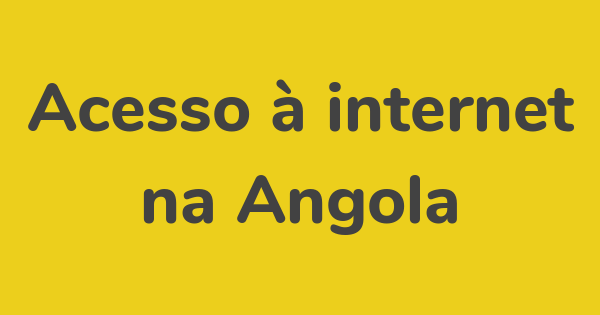
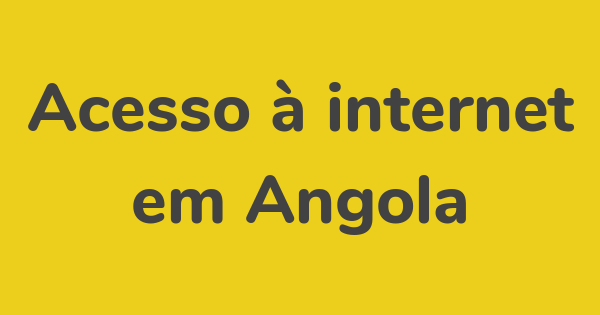
correct post name angola

Changed region(s): [[0.21, 0.5429, 0.78, 0.7714]]

diff --git a/_posts/2017-01-31-internet-angola.md b/_posts/2017-01-31-internet-angola.md
@@ -1,20 +1,20 @@
 ---
 layout: post
-title: "Acessso à internet na Angola"
+title: "Acessso à internet em Angola"
 date: 2017-01-31 12:50:06
 image: '/assets/img/angola.png'
 description: "Conheça mais sobre a internet nesse país que tem muito mais a ver com o Brasil do que apenas o idioma."
 tags:
 - angola
 - internet
-twitter_text: "Conheça mais sobre a Angola e a internet por lá"
+twitter_text: "Conheça mais sobre Angola e a internet por lá"
 ---
 
 Eu to muito puto. Não costumo produzir conteúdo muito educado nesses momentos. Talvez seja o tom ideal mesmo.
 
 Você sabia que dados de 2013 apontam que [10% dos angolanos](https://br.sputniknews.com/portuguese.ruvr.ru/news/2013_08_08/apenas-10-dos-angolanos-tem-acesso-a-internet-1582/){:target="_blank"} têm/tinham acesso à internet? Não sabia, mas agora já sabe. *Existem pessoas* que desconhecem muitos fatos e analisam a realidade dos outros tomando a sua como base, então todo o mundo tem acesso à internet, educação e tudo mais. Continuemos.
 
-{% include image.html src="../assets/img/internet-angola.jpg" alt="Banner sobre internet gratuita na Angola. Uma angolana segura um celular com a mensagem: Facebook grátis para chegar a todos" caption="Você também usa esse celular em 2017 né?" %}
+{% include image.html src="../assets/img/internet-angola.jpg" alt="Banner sobre internet gratuita em Angola. Uma angolana segura um celular com a mensagem: Facebook grátis para chegar a todos" caption="Você também usa esse celular em 2017 né?" %}
 
 Em 2015,o Facebook, através de uma iniciativa chamada [internet.org](https://internet.org){:target="_blank"}, começou a disponibilizar acesso [DE GRAÇA](http://www.bantumen.com/2015/06/facebook-chega-movicel-forma-gratuita-atraves-da-internet-org/){:target="_blank"} a conteúdos de saúde, notícias, emprego, meteorologia, além do próprio Facebook. Sabe o que isso significa? Uma caralhada de brasileiro otário mandando os angolanos "procurar no Google" pelos downloads que pedem nos grupos do Facebook.
 
